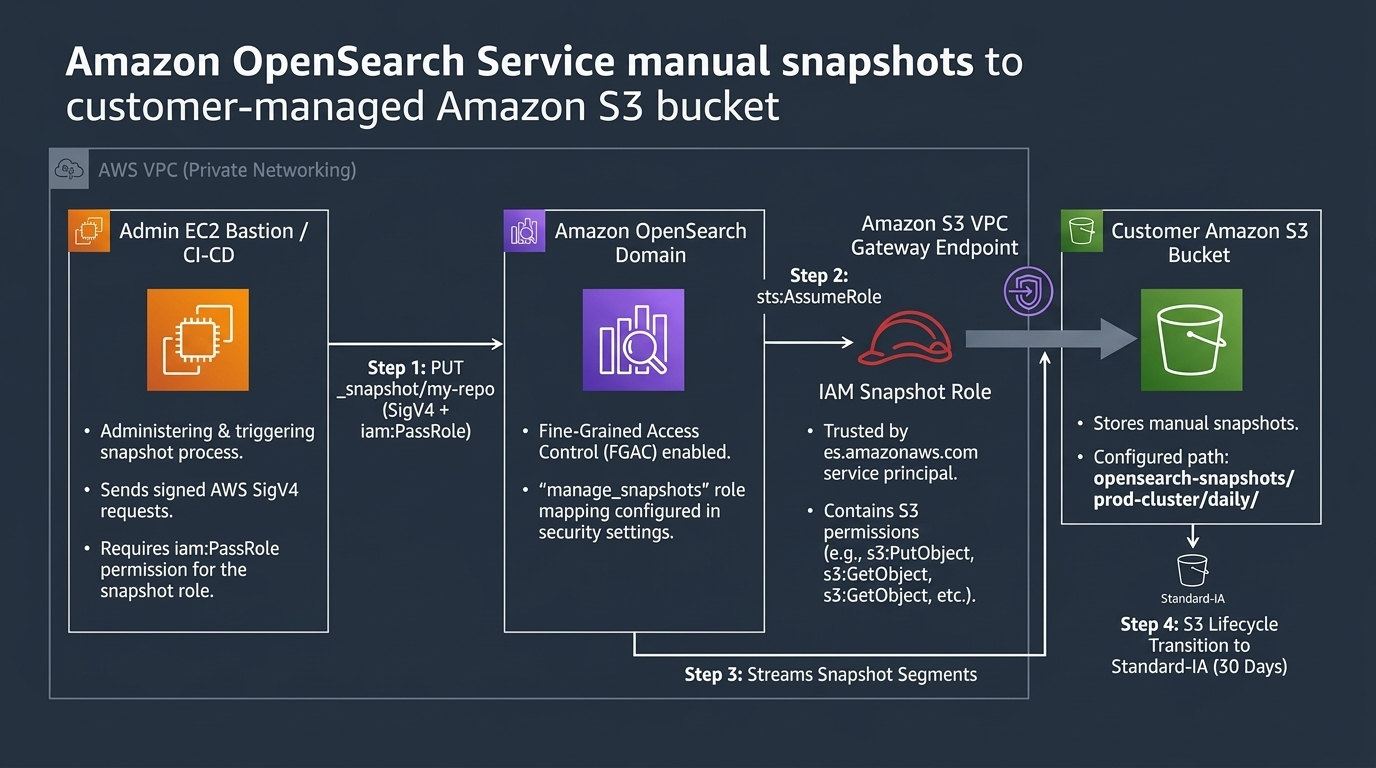
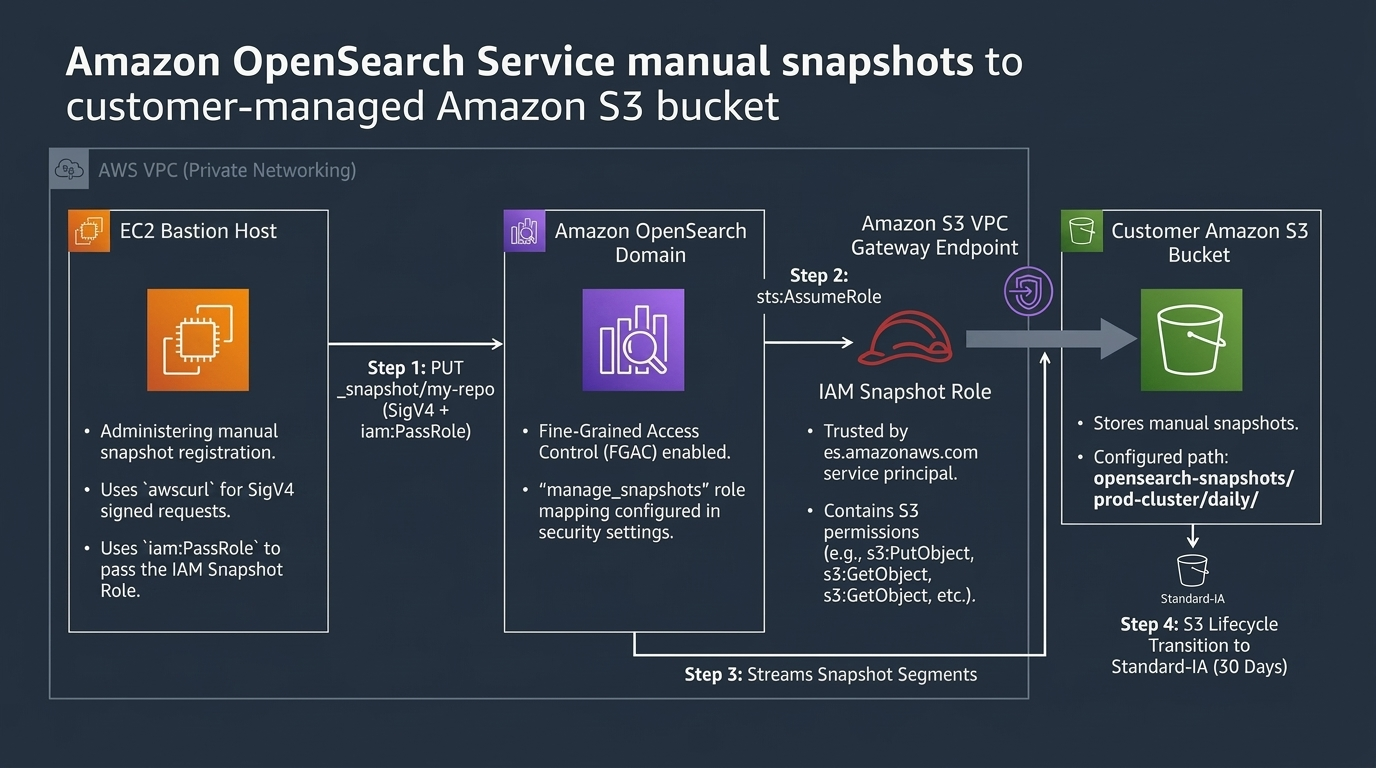
docs: standardize on 'EC2 Bastion Host' in architecture diagram and add CloudShell private VPC explanation

diff --git a/BLOG.html b/BLOG.html
@@ -41,7 +41,7 @@
     <p>To make this happen, three pieces must work together:</p>
     <ol>
       <li><strong>The Snapshot IAM Role:</strong> Trusted by the OpenSearch service (<code>es.amazonaws.com</code>) with read/write access to your S3 bucket.</li>
-      <li><strong>The Execution Role (Bastion or CI/CD):</strong> The identity making the signed HTTP request to register the repository. It needs permission to pass the snapshot role to OpenSearch via <a href="https://docs.aws.amazon.com/IAM/latest/UserGuide/id_roles_use_passrole.html" target="_blank" rel="noopener noreferrer"><code>iam:PassRole</code></a>.</li>
+      <li><strong>The Bastion Host Execution Role:</strong> The EC2 identity making the signed HTTP request to register the repository. It needs permission to pass the snapshot role to OpenSearch via <a href="https://docs.aws.amazon.com/IAM/latest/UserGuide/id_roles_use_passrole.html" target="_blank" rel="noopener noreferrer"><code>iam:PassRole</code></a>.</li>
       <li><strong>OpenSearch Internal Security:</strong> If your domain uses <a href="https://docs.aws.amazon.com/opensearch-service/latest/developerguide/fgac.html" target="_blank" rel="noopener noreferrer">Fine-Grained Access Control (FGAC)</a>, OpenSearch blocks your request unless your execution role ARN is mapped inside OpenSearch Dashboards.</li>
     </ol>
 
@@ -105,10 +105,14 @@
   ]
 }</code></pre>
 
-    <h3>2. Permissions for Your Execution Role (EC2 or Bastion)</h3>
+    <h3>2. Permissions for Your Bastion Host Execution Role</h3>
     <p>You cannot register snapshot repositories through the AWS web console. You must send an HTTP request to the OpenSearch cluster endpoint.</p>
 
-    <p>Whether you run this from an EC2 instance, AWS Systems Manager (SSM), or a local machine, that calling role needs access to OpenSearch and permission to pass the snapshot role:</p>
+    <p>In production VPC setups, you run this from an <strong>EC2 Bastion Host</strong> inside the same VPC (ideally connected via <a href="https://docs.aws.amazon.com/systems-manager/latest/userguide/session-manager.html" target="_blank" rel="noopener noreferrer">AWS Systems Manager Session Manager</a> with zero open inbound ports).</p>
+
+    <p><em>(Why not AWS CloudShell? CloudShell works for public clusters, but production domains live in private VPC subnets. Default CloudShell runs outside your VPC and cannot reach private endpoints. A private Bastion Host inside the VPC avoids network barriers.)</em></p>
+
+    <p>That calling role needs access to OpenSearch and permission to pass the snapshot role:</p>
 
     <pre><code>{
   "Version": "2012-10-17",
@@ -165,7 +169,7 @@
 
     <h2>Step 4: Register the S3 Repository with awscurl</h2>
 
-    <p>Because OpenSearch endpoints require <a href="https://docs.aws.amazon.com/general/latest/gr/signing_aws_api_requests.html" target="_blank" rel="noopener noreferrer">AWS Signature Version 4 (SigV4)</a> authentication, standard <code>curl</code> fails unless you pass signed headers.</p>
+    <p>Log into your EC2 Bastion Host. Because OpenSearch endpoints require <a href="https://docs.aws.amazon.com/general/latest/gr/signing_aws_api_requests.html" target="_blank" rel="noopener noreferrer">AWS Signature Version 4 (SigV4)</a> authentication, standard <code>curl</code> fails unless you pass signed headers.</p>
 
     <p>Use <a href="https://github.com/okigan/awscurl" target="_blank" rel="noopener noreferrer"><code>awscurl</code></a>, a lightweight tool that signs HTTP requests using your instance credentials:</p>
 

diff --git a/BLOG.md b/BLOG.md
@@ -22,7 +22,7 @@ OpenSearch does not need background agents or complex sync jobs. When you trigge
 
 To make this happen, three pieces must work together:
 1. **The Snapshot IAM Role:** Trusted by the OpenSearch service (`es.amazonaws.com`) with read/write access to your S3 bucket.
-2. **The Execution Role (Bastion or CI/CD):** The identity making the signed HTTP request to register the repository. It needs permission to pass the snapshot role to OpenSearch via [`iam:PassRole`](https://docs.aws.amazon.com/IAM/latest/UserGuide/id_roles_use_passrole.html).
+2. **The Bastion Host Execution Role:** The EC2 identity making the signed HTTP request to register the repository. It needs permission to pass the snapshot role to OpenSearch via [`iam:PassRole`](https://docs.aws.amazon.com/IAM/latest/UserGuide/id_roles_use_passrole.html).
 3. **OpenSearch Internal Security:** If your domain uses [Fine-Grained Access Control (FGAC)](https://docs.aws.amazon.com/opensearch-service/latest/developerguide/fgac.html), OpenSearch blocks your request unless your execution role ARN is mapped inside OpenSearch Dashboards.
 
 ---
@@ -87,10 +87,14 @@ Next, attach an inline policy granting permissions on your bucket:
 }
 ```
 
-### 2. Permissions for Your Execution Role (EC2 or Bastion)
+### 2. Permissions for Your Bastion Host Execution Role
 You cannot register snapshot repositories through the AWS web console. You must send an HTTP request to the OpenSearch cluster endpoint. 
 
-Whether you run this from an EC2 instance, AWS Systems Manager (SSM), or a local machine, that calling role needs access to OpenSearch and permission to pass the snapshot role:
+In production VPC setups, you run this from an **EC2 Bastion Host** inside the same VPC (ideally connected via [AWS Systems Manager Session Manager](https://docs.aws.amazon.com/systems-manager/latest/userguide/session-manager.html) with zero open inbound ports).
+
+*(Why not AWS CloudShell? CloudShell works for public clusters, but production domains live in private VPC subnets. Default CloudShell runs outside your VPC and cannot reach private endpoints. A private Bastion Host inside the VPC avoids network barriers.)*
+
+That calling role needs access to OpenSearch and permission to pass the snapshot role:
 
 ```json
 {
@@ -147,7 +151,7 @@ Once mapped, your execution identity has full cluster rights to create and manag
 
 ## Step 4: Register the S3 Repository with awscurl
 
-Because OpenSearch endpoints require [AWS Signature Version 4 (SigV4)](https://docs.aws.amazon.com/general/latest/gr/signing_aws_api_requests.html) authentication, standard `curl` fails unless you pass signed headers. 
+Log into your EC2 Bastion Host. Because OpenSearch endpoints require [AWS Signature Version 4 (SigV4)](https://docs.aws.amazon.com/general/latest/gr/signing_aws_api_requests.html) authentication, standard `curl` fails unless you pass signed headers. 
 
 Use [`awscurl`](https://github.com/okigan/awscurl), a lightweight tool that signs HTTP requests using your instance credentials:
 

diff --git a/README.md b/README.md
@@ -153,7 +153,7 @@ If your OpenSearch domain has [Fine-Grained Access Control (FGAC)](https://docs.
 ---
 
 ### Step 5: Register the S3 Snapshot Repository
-Connect to your EC2 instance or local terminal authenticated with the execution role credentials.
+Connect to your **EC2 Bastion Host** (e.g. via AWS Systems Manager Session Manager).
 
 Install `awscurl` (which handles [AWS Signature Version 4](https://docs.aws.amazon.com/general/latest/gr/signing_aws_api_requests.html) request signing):
 ```bash
